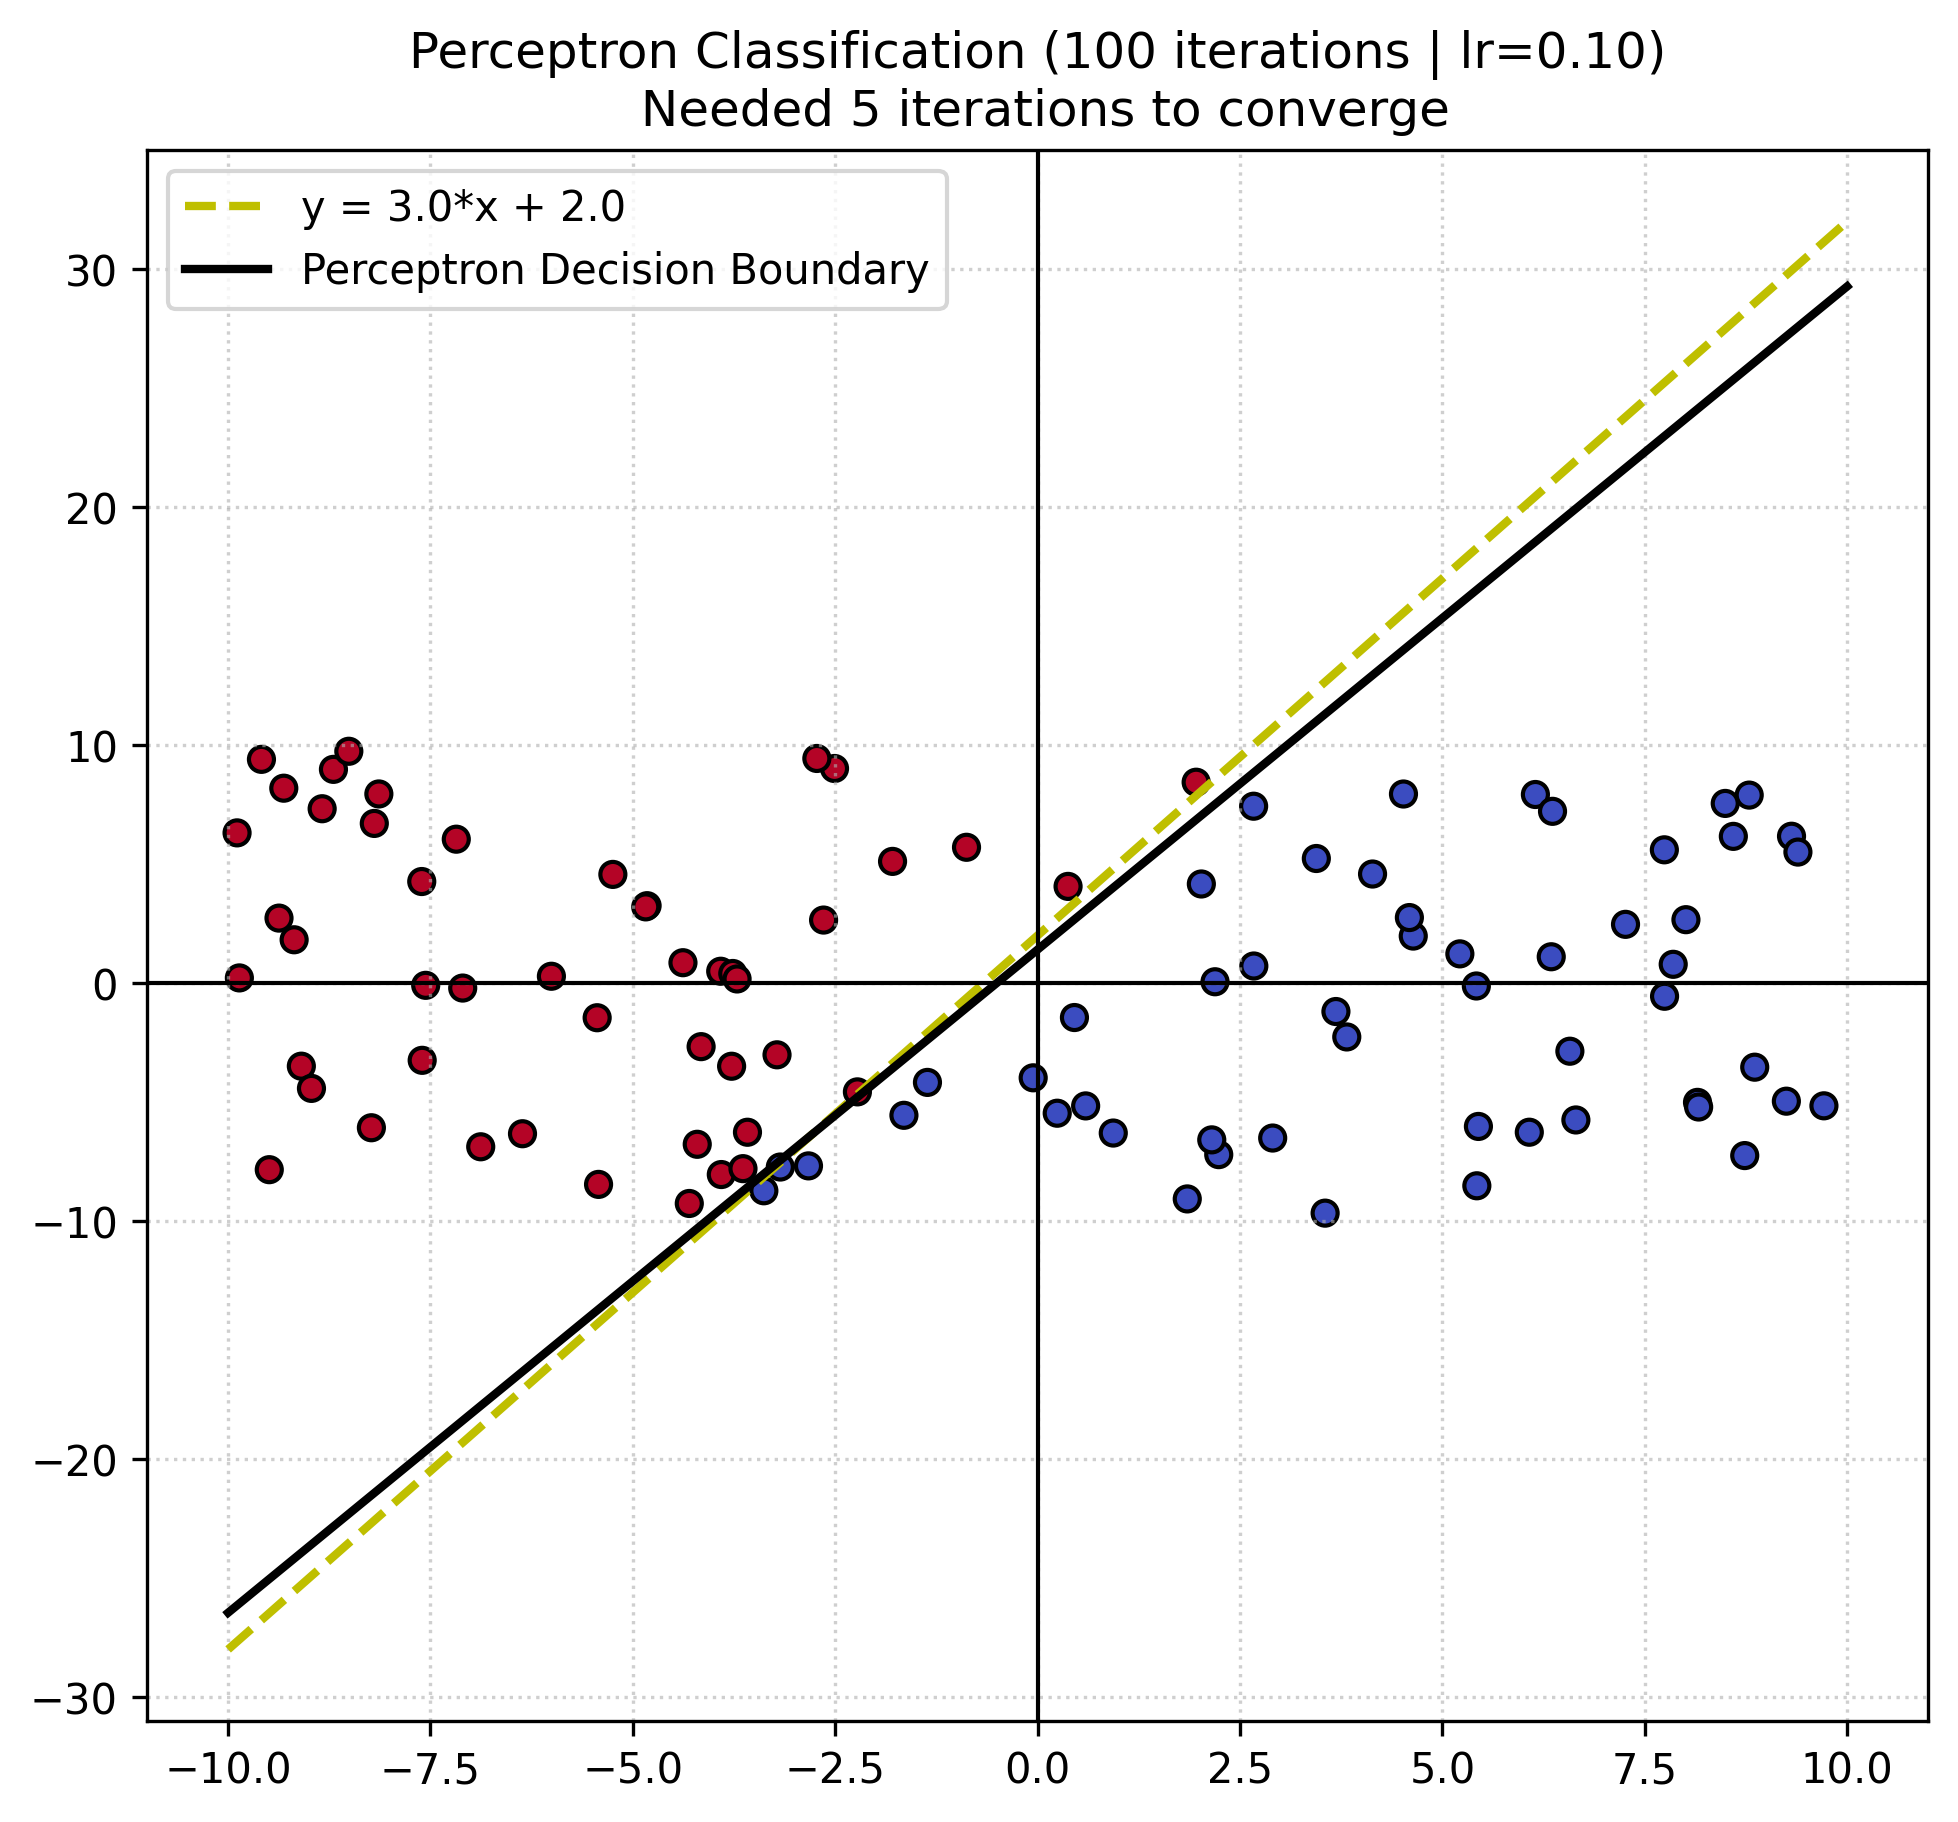
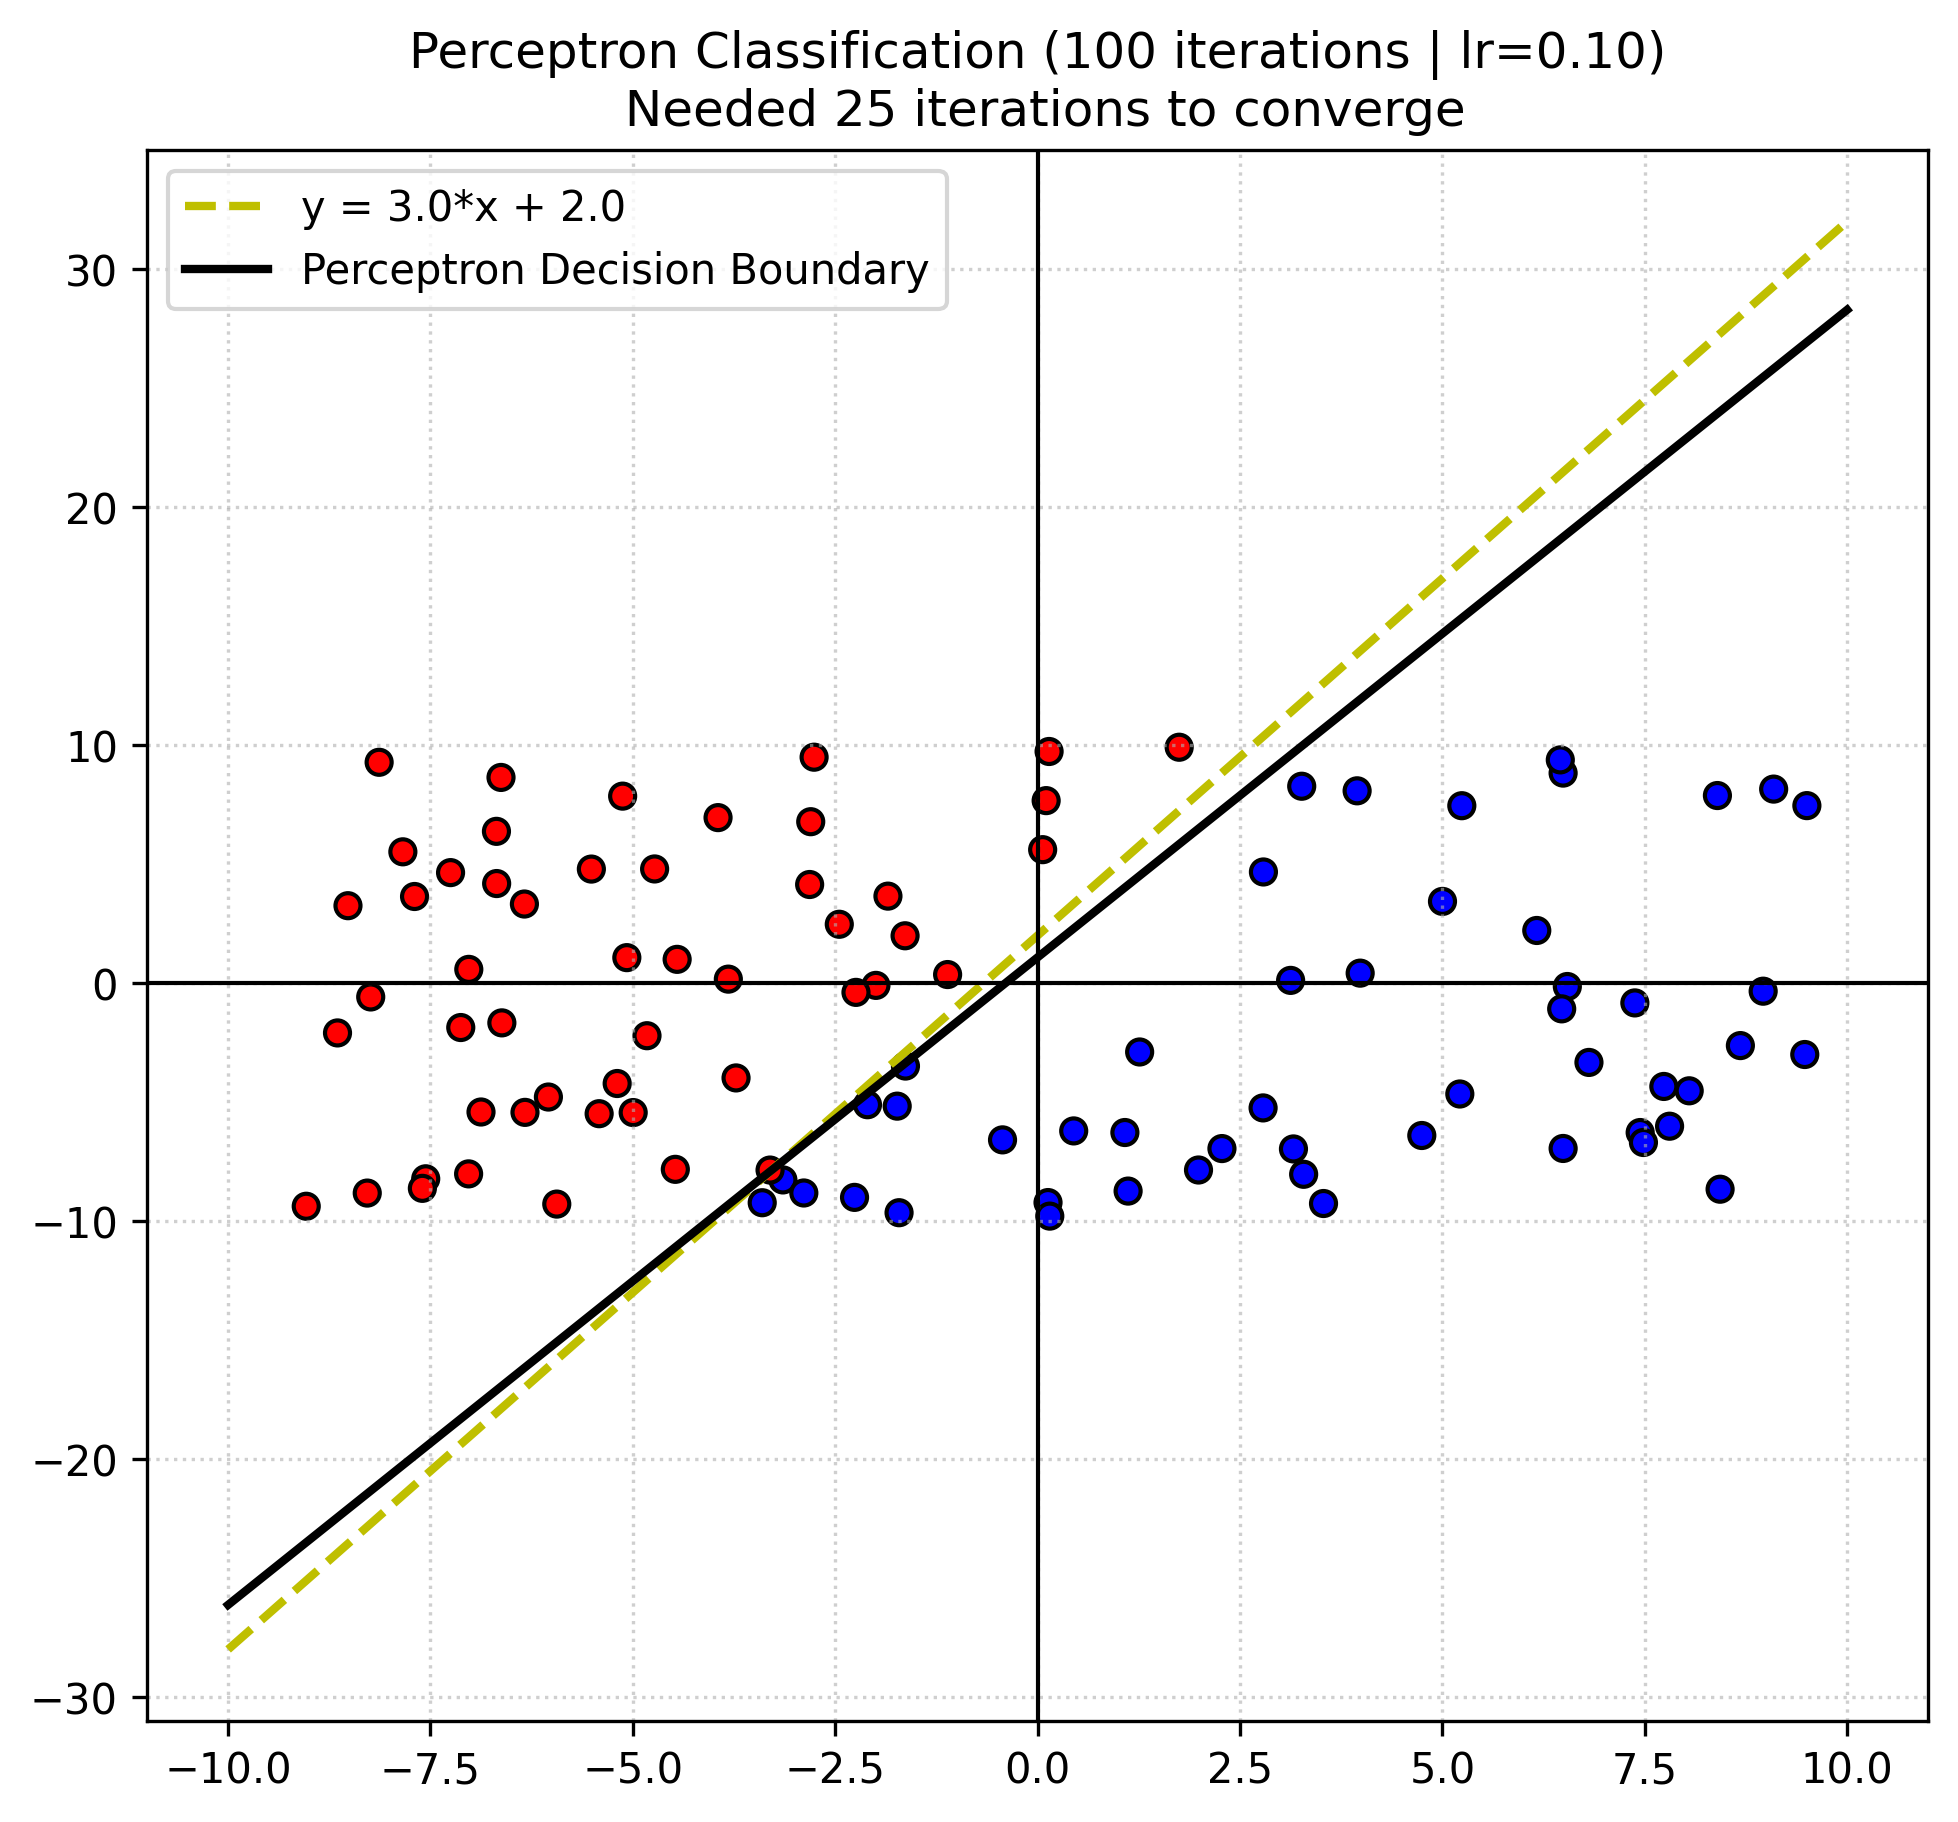
Update point color assignment in scatter plot to use predictions from Perceptron

diff --git a/src/exec01/ui.py b/src/exec01/ui.py
@@ -117,7 +117,8 @@ class PerceptronGUI:
 
         self.fig, ax = plt.subplots(figsize=(6, 5))
         colors = {-1: 'blue', 0: 'green', 1: 'red'}
-        point_colors = [colors[label] for label in y]
+        predictions = [perceptron.predict(p) for p in X]
+        point_colors = [colors[pred] for pred in predictions]
         ax.scatter(X[:, 0], X[:, 1], c=point_colors, edgecolors='k')
 
         x_line = np.linspace(-10, 10, 100)
